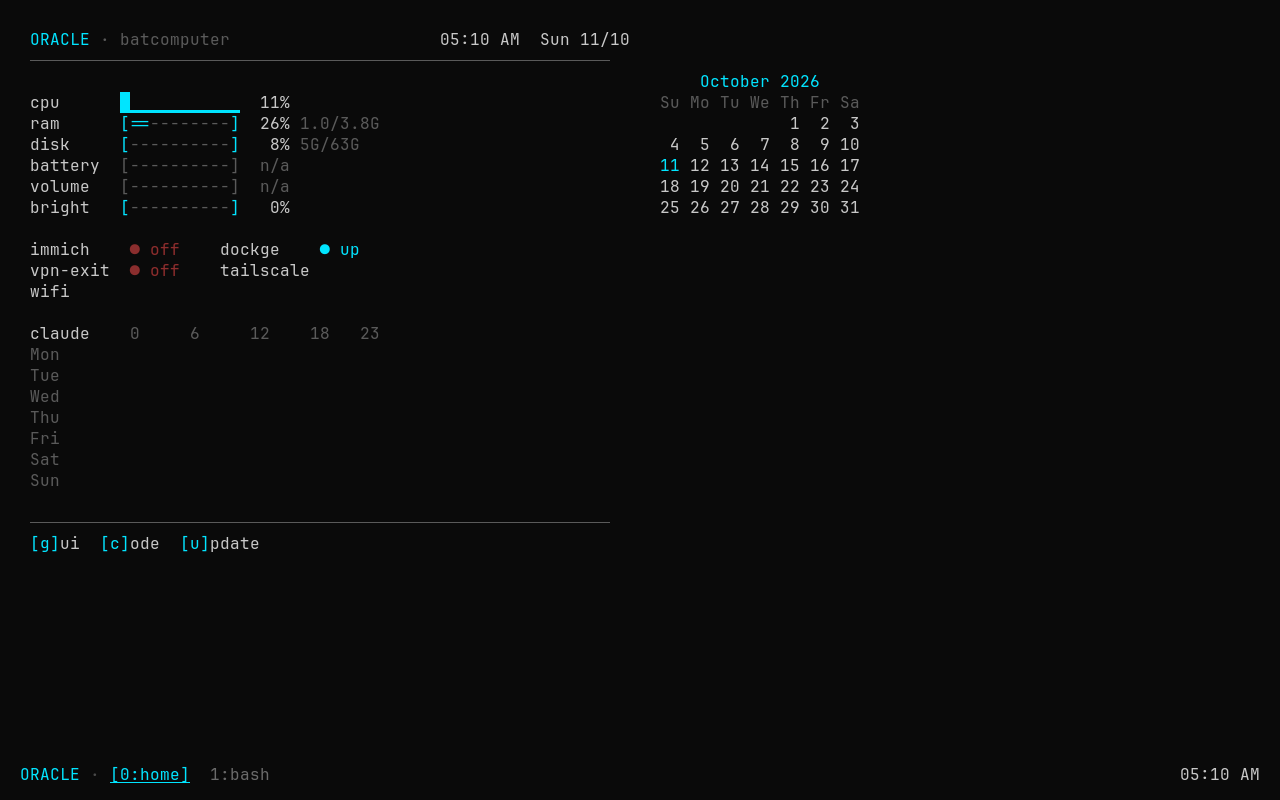
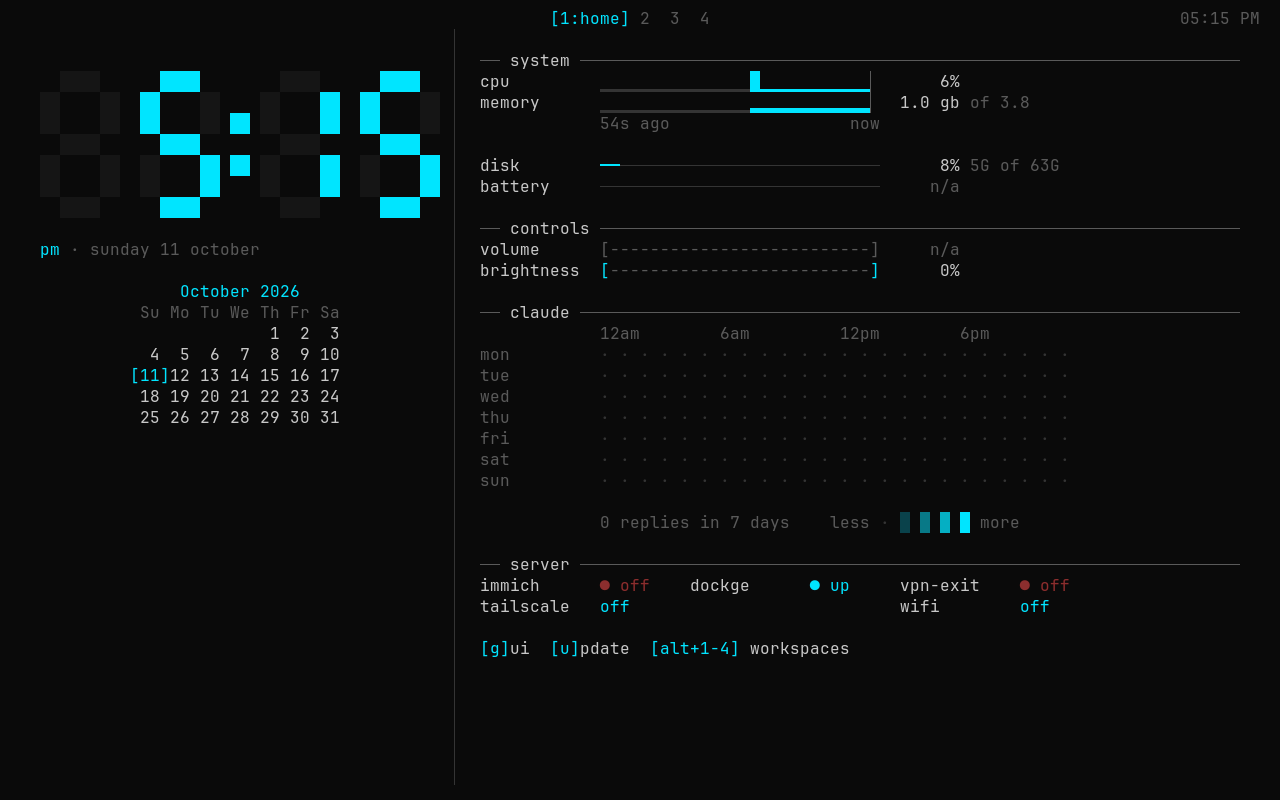
Two-column dashboard (big clock + calendar | system, controls, claude, server), workspaces 1-4 at top center, lid closed = screen off, test/shot.sh

diff --git a/AGENTS.md b/AGENTS.md
@@ -52,7 +52,10 @@ From github.com/nlanhson/homeserver, unchanged stacks. `server/server.sh`, calle
 - USB stick (SanDisk 28.6G exFAT) `oracle-migration-2026-10-10/` = this layout minus tailscale tarballs. Move day: owner runs `server.sh backup <that folder>` on CachyOS (top-up + tailscale), then wipe.
 
 ## Shell mode + look + dashboard (built, VM-tested)
-tty1 login → `oracle session` loop: Shell = `cage -s -- ghostty -e oracle attach` (tmux session oracle: window 0 = `oracle home` dashboard: bin/oracle-home loop + widget modules default/home/<name>.sh (each defines w_<name>; order = WIDGETS array; theme.sh = colors/bar/spark) (bash/awk, 2s refresh, keys g/c/u): cpu+gpu sparklines (gpu_busy_percent), bars, server/tailscale/wifi, month calendar (right column), Claude Code heatmap 7d×24h from ~/.claude/projects jsonl (60s); window 1 shell); look = default/ghostty/config + default/tmux.conf (user files include them, copy-if-missing), app default font, 12h clock; `oracle gui` → Hyprland (start-hyprland); `oracle shell` / Super+M → back. tmux survives switches; GUI apps close on return. Mode file `~/.local/state/oracle/mode`. Exit last tmux shell = logout.
+tty1 login → `oracle session` loop: Shell = `cage -s -- ghostty -e oracle attach`. tmux session `oracle`, workspaces 1-4 always exist (`oracle tabs`, re-created by tmux hook `window-unlinked`): 1 = `oracle home` dashboard, 2-4 = terminals. Bar at TOP CENTER, no "ORACLE" word: inactive = number, active = `2 terminal` (auto-rename: shell → "terminal", else program name). Alt+1..4 (ghostty alt+digit unbound). Clock top right.
+Dashboard = bin/oracle-home: two columns. Left ~28% (min 44 cols): big 12h clock (ascii.rest digital-clock: 8x7 seven-segment, lit █ unlit ░) + date + calendar (today = cyan block). Right: sections with `── title ───` rules: system (cpu/gpu/memory sparklines like ascii.rest/sparkline, disk+battery `━━━───` meters), controls (volume/brightness `[====----]`), claude (ascii.rest heatmap `· ░ ▒ ▓ █`, 7d×24h, 12am/6am/12pm/6pm axis), server (immich/dockge/vpn-exit, tailscale, wifi), footer keys. Widgets = default/home/<name>.sh, `w_<name>` prints lines; oracle-home places them (runs in same shell → state kept). Sizes LW/RW/SW from terminal size. Keys g gui, u update. 2s refresh. Owner wants more widgets later.
+Look = default/ghostty/config + default/tmux.conf (user files include them), app default font. `oracle gui` → Hyprland; `oracle shell` / Super+M → back. Mode file `~/.local/state/oracle/mode`.
+Screenshot without VM: render via tmux inside pyte (python) in an archlinux container (rig not in repo yet); VM: `test/vm.sh oracle` → $VM_DIR/shell.png, gui.png.
 
 ## Later (one at a time, owner picks when)
 - Oracle ISO: built (see Install). Left: offline pkg cache on ISO, `restore` from stick in firstboot, Secure Boot/UKI.
@@ -77,8 +80,9 @@ Built + VM-tested (`test/vm.sh iso` 16/16): ISO one-pass install (Wi-Fi, disk, u
 ## Before move day (do these first, in order)
 Owner 2026-10-11: ONE Oracle, tailored to owner only, not published anywhere. Public version = later (then: archinstall-style choices, encryption optional). Power saving not important: no nvidia-open/power-profiles. AMD iGPU only (GPU switching maybe later). Browser = Brave Origin (never say plain "Brave"). Vietnamese + Claude Code preinstall: later.
 Done: battery limit (`/etc/oracle/battery-limit`, default 50, `oracle-battery.service` writes sysfs each boot, `oracle battery <20-100>`, dashboard shows limit). Settings screen will edit it later.
-1. Screen off when lid closed, machine keeps running (IMPORTANT, home server). Cage has no lid support → logind/acpid watcher + backlight off.
-2. Repo → private (owner ok). First: ISO carries the whole repo (no clone/RAW fetch at install), `oracle update` needs GitHub auth (`gh auth login` once after install). Then flip visibility. CI ISO → private Release, or build locally.
+Done: lid closed → backlight off, keeps running (system/oracle-lid → /usr/local/bin, root `oracle-lid.service`, polls /proc/acpi/button/lid every 2s, saves/restores /sys/class/backlight/*/brightness; logind ignores lid via server.sh). G14 today: amdgpu_bl1.
+1. Keep building (owner tweaks a lot). Repo stays PUBLIC while building. When done: owner plugs USB, copy, THEN flip private (needs: ISO carries whole repo, `gh auth login` once for `oracle update`).
+2. Owner's ideas next: more dashboard widgets, settings screen (battery limit etc.).
 3. ISO → owner flashes USB.
 4. Move day on CachyOS: plug backup stick, `bash ~/Projects/oracle/server/server.sh backup /run/media/son/586D-16CB/oracle-migration-2026-10-10` (sudo: adds tailscale tarballs + photo top-up). Old full-history bundle: ~/Projects/oracle-history-backup-2026-10-11.bundle (copy to stick too).
 5. Boot ISO → install → `oracle restore <stick folder>` → Immich Job Queues: thumbnails + transcode missing → phone check.

diff --git a/docs/manual/getting-started.md b/docs/manual/getting-started.md
@@ -6,10 +6,10 @@ Oracle starts on a plain login prompt. Type your username and password.
 
 You land in **Shell mode**:
 
-- **Window 0 – home:** the dashboard with your computer's health, the home server, a calendar and your Claude Code activity.
-- **Window 1 – bash:** a terminal, ready for commands.
+- **Workspace 1 – home:** the dashboard. On the left, a big clock and the calendar. On the right, your computer's health, volume and brightness, your Claude Code activity and the home server.
+- **Workspaces 2, 3 and 4:** terminals, ready for commands.
 
-The bar at the bottom shows your open windows and the time. Switch windows with `Ctrl+b` then the window number, or click them.
+The bar at the top shows the workspaces. The one you're on shows its name, like `2 terminal`, or the program running in it, like `2 claude`. Switch with `Alt + 1` to `Alt + 4`, or click a number. If you close a terminal, a fresh one takes its place.
 
 ## The desktop
 

diff --git a/docs/manual/backup.md b/docs/manual/backup.md
@@ -11,6 +11,10 @@ Oracle can run a small home server:
 
 The dashboard shows whether each app is up.
 
+**Closing the lid** turns the screen off and keeps everything running, so the laptop can sit closed on a shelf. Opening it brings the screen back.
+
+**Battery:** a laptop that's always plugged in lasts longer if it doesn't sit at 100%. Oracle stops charging at 50%. Change it with `oracle battery 30` (any number from 20 to 100).
+
 ## Back up
 
 Plug in a USB stick or drive and type:

diff --git a/docs/manual/keys.md b/docs/manual/keys.md
@@ -7,15 +7,14 @@
 | Key | Does |
 |---|---|
 | `g` | Open the desktop |
-| `c` | New terminal window |
 | `u` | Run `oracle update` |
 
 ## Terminal sessions (tmux)
 
 | Key | Does |
 |---|---|
-| `Ctrl+b` then `c` | New window |
-| `Ctrl+b` then `0`–`9` | Go to window |
+| `Alt + 1` to `Alt + 4` | Go to workspace (1 is the dashboard) |
+| `Ctrl+b` then `c` | Extra window (5, 6, …) |
 | `Ctrl+b` then `g` | Open the desktop |
 | `Ctrl+b` then `d` | Detach (sessions keep running) |
 
